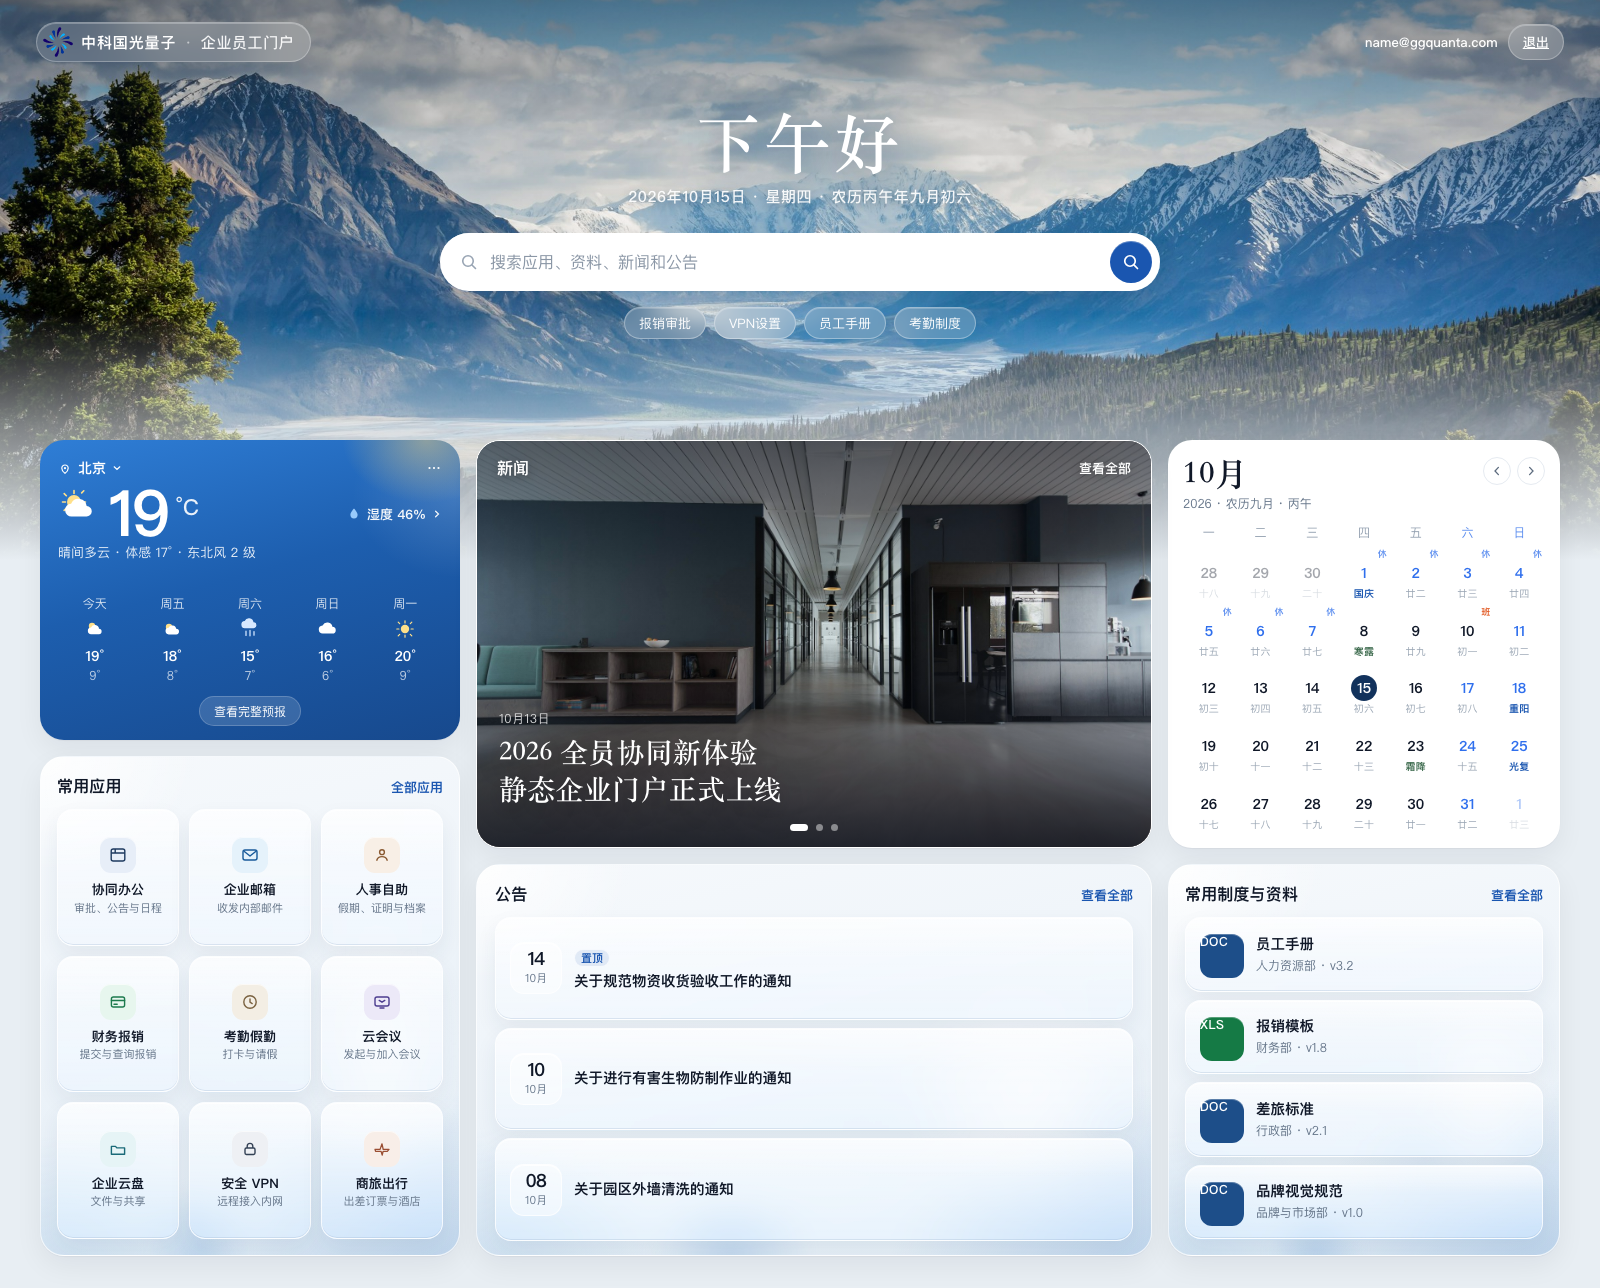
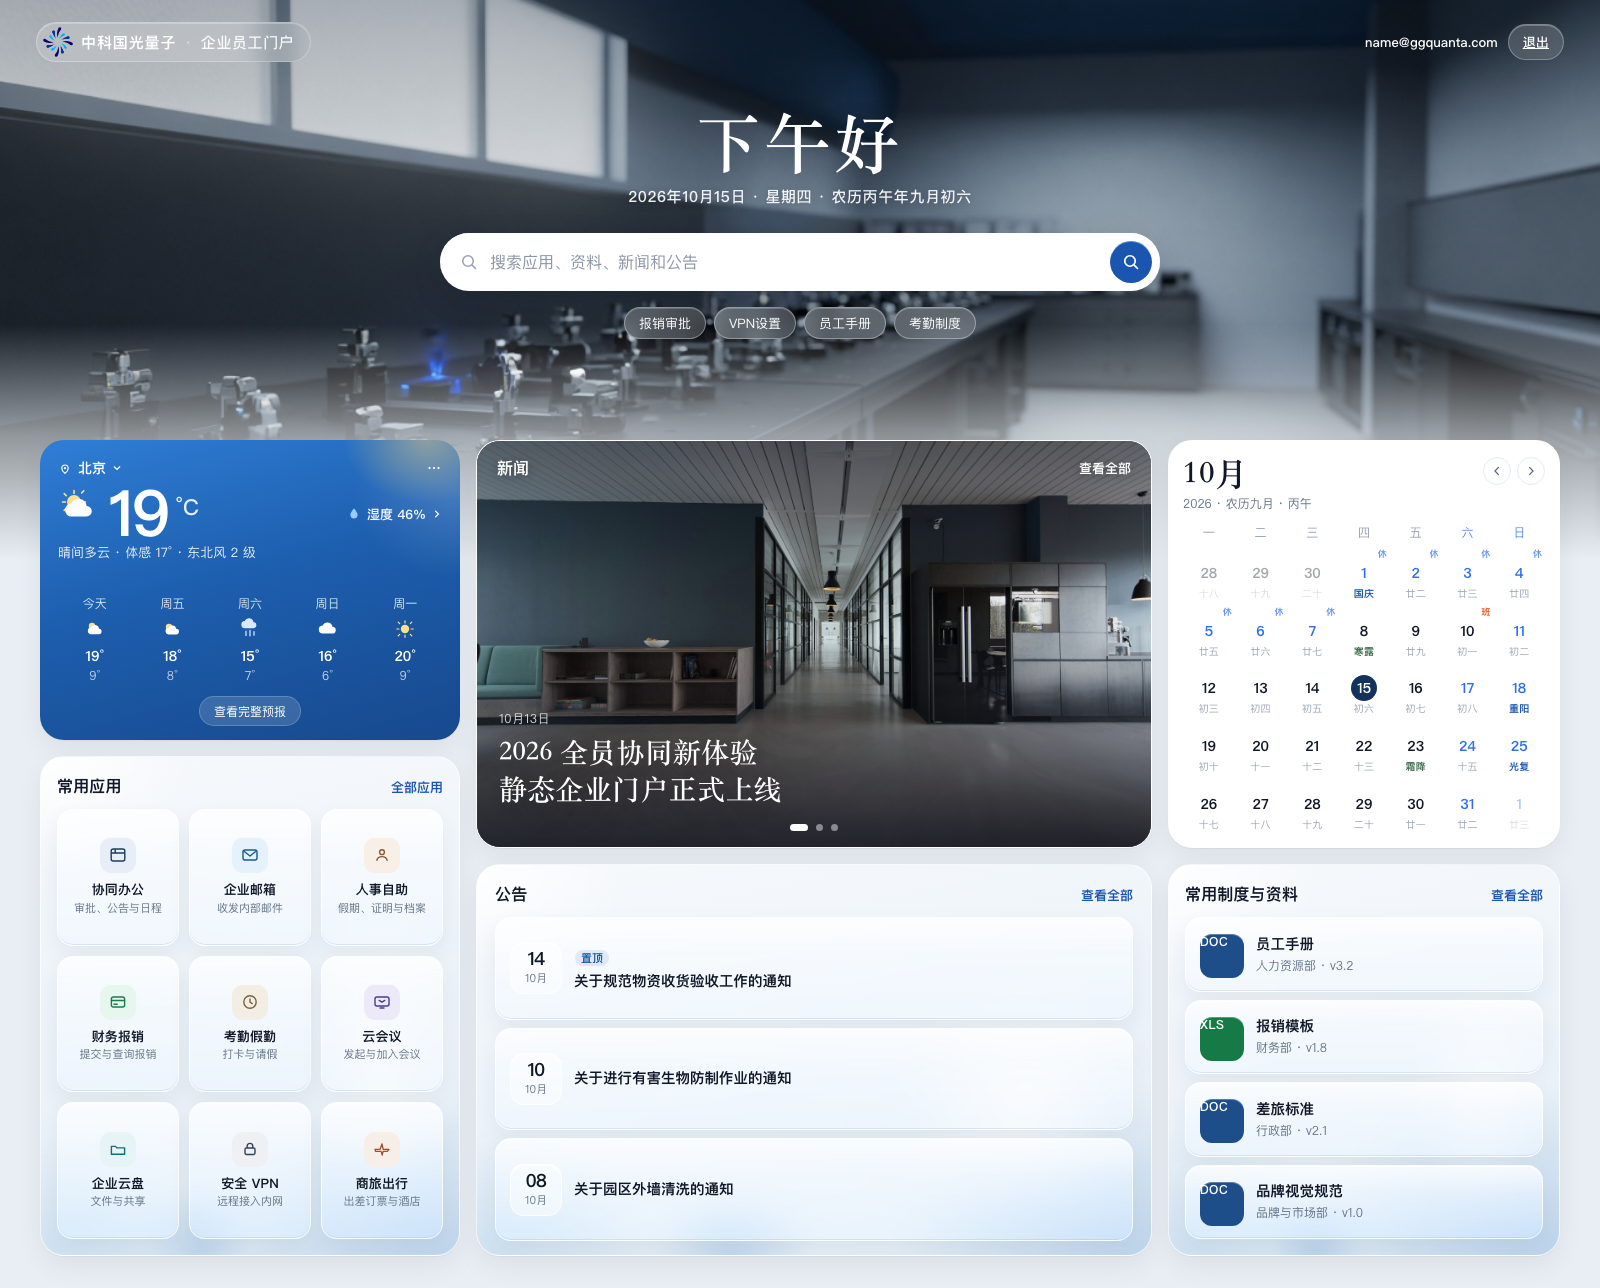
更换首页页头背景为光学实验室，使画面贴近光量子业务，并保证白字和搜索框可读。

Changed region(s): [[0.0, 0.0, 1.0, 0.4037]]

diff --git a/原型/设计图/homepage.html b/原型/设计图/homepage.html
@@ -35,13 +35,13 @@
       height: 560px;
       background:
         linear-gradient(180deg,
-          rgba(8, 22, 42, 0.34) 0%,
-          rgba(8, 22, 42, 0.12) 22%,
-          rgba(8, 22, 42, 0.02) 42%,
-          rgba(232, 238, 243, 0) 56%,
-          rgba(232, 238, 243, 0.55) 76%,
+          rgba(8, 18, 32, 0.28) 0%,
+          rgba(8, 18, 32, 0.08) 28%,
+          rgba(8, 18, 32, 0.02) 46%,
+          rgba(232, 238, 243, 0) 58%,
+          rgba(232, 238, 243, 0.62) 78%,
           #e8eef3 100%),
-        url("assets/hero-day.jpg") center 46% / cover no-repeat;
+        url("assets/hero-lab.jpg") center 42% / cover no-repeat;
     }
 
     .top {
